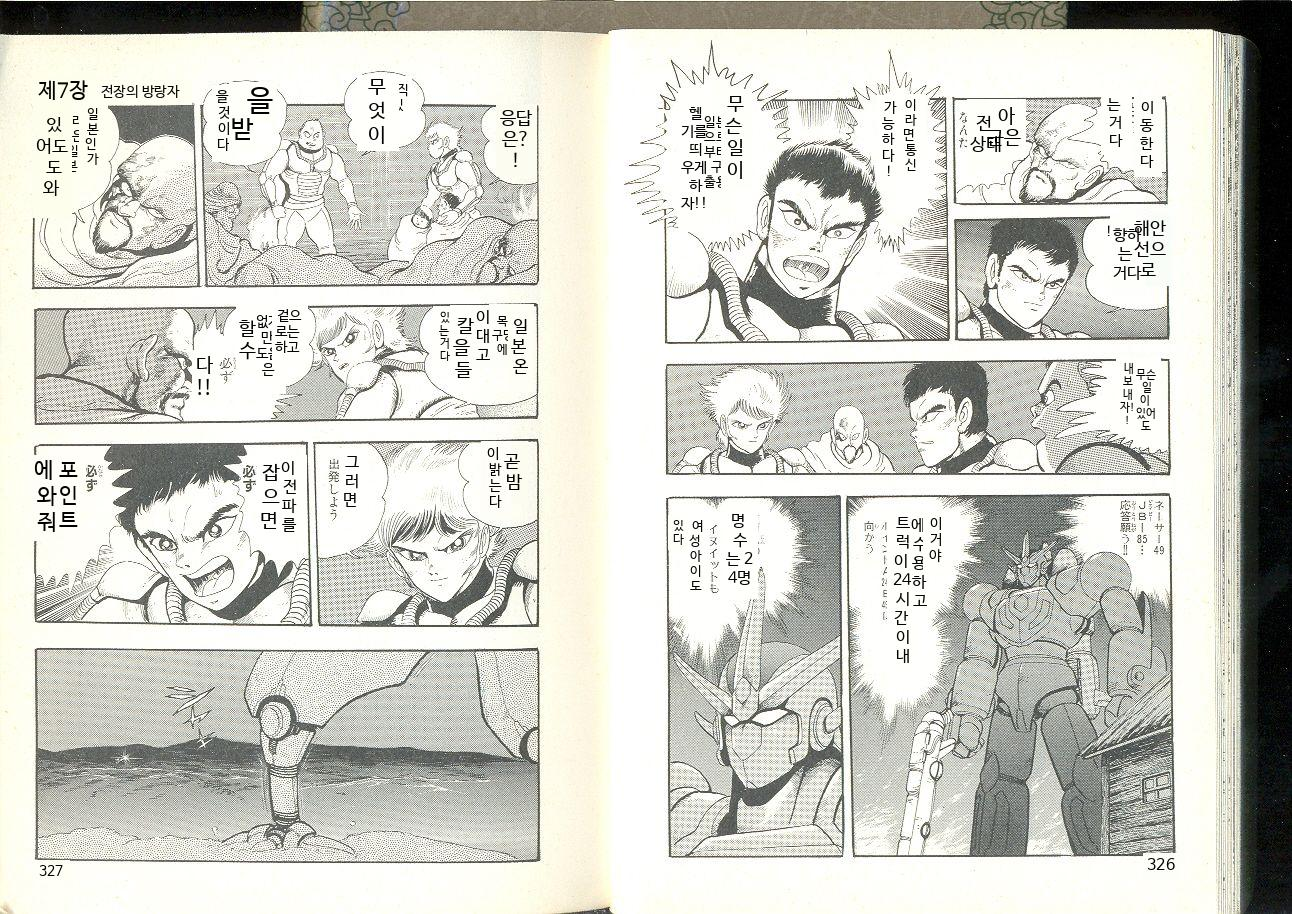
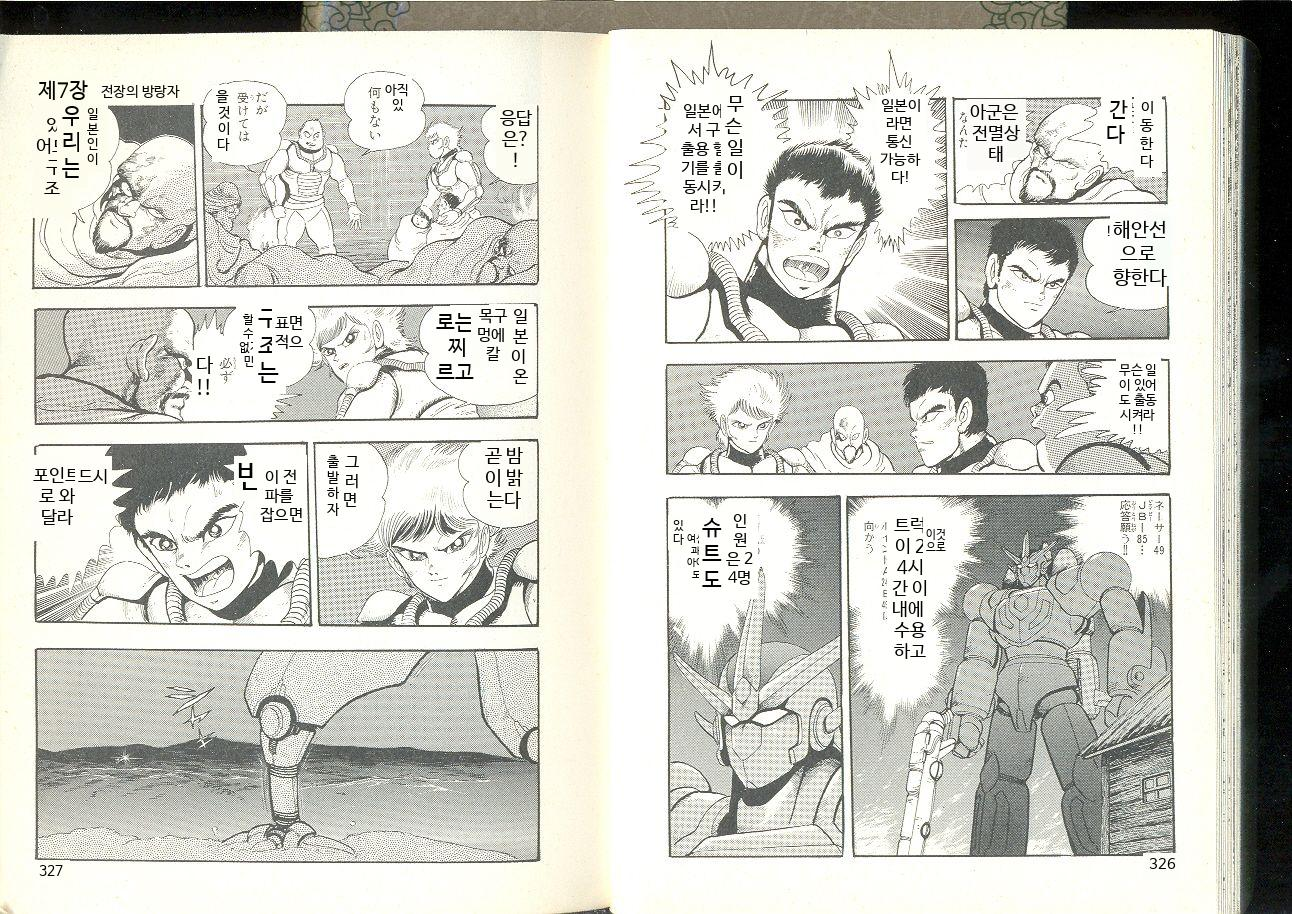
fix(render): 겹치는 bbox 클러스터링으로 텍스트 겹침 해결
- Union-Find로 겹치거나 인접(5px 이내)한 bbox를 클러스터로 묶음
- 클러스터 단위로 텍스트 분배 및 렌더링 (같은 클러스터 내 폰트 크기 통일)
- 세로쓰기 만화 말풍선에서 텍스트 겹침 문제 해결
- 테스트 11개 추가 (클러스터링, 겹침 판정, 겹치는 bbox 렌더링)
- 데모 이미지 업데이트

diff --git a/render.py b/render.py
@@ -8,7 +8,8 @@ from PIL import Image, ImageDraw, ImageFont
 DEFAULT_FONT = Path(__file__).resolve().parent / "fonts" / "NanumBarunGothic.ttf"
 MIN_FONT_SIZE = 8
 LINE_SPACING = 1.2
-ERASE_MARGIN = 3  # bbox 지우기 시 추가 마진 (px)
+ERASE_MARGIN = 3
+CLUSTER_GAP = 5  # bbox 간 이 거리 이하면 같은 클러스터로 묶음
 
 
 def _get_bbox_rect(bbox: list[list[float]]) -> tuple[int, int, int, int]:
@@ -127,6 +128,53 @@ def _erase_bbox(
     return bg_color
 
 
+def _rects_overlap_or_adjacent(
+    r1: tuple[int, int, int, int],
+    r2: tuple[int, int, int, int],
+    gap: int = CLUSTER_GAP,
+) -> bool:
+    """두 rect가 겹치거나 gap 이하로 인접하면 True."""
+    x1a, y1a, x1b, y1b = r1
+    x2a, y2a, x2b, y2b = r2
+    return not (
+        x1b + gap < x2a or x2b + gap < x1a or y1b + gap < y2a or y2b + gap < y1a
+    )
+
+
+def _cluster_bboxes(
+    bbox_rects: list[tuple[int, int, int, int]],
+) -> list[list[int]]:
+    """겹치거나 인접한 bbox들을 클러스터로 묶어 인덱스 그룹 반환.
+
+    Union-Find로 구현.
+    """
+    n = len(bbox_rects)
+    parent = list(range(n))
+
+    def find(x: int) -> int:
+        while parent[x] != x:
+            parent[x] = parent[parent[x]]
+            x = parent[x]
+        return x
+
+    def union(a: int, b: int) -> None:
+        ra, rb = find(a), find(b)
+        if ra != rb:
+            parent[ra] = rb
+
+    for i in range(n):
+        for j in range(i + 1, n):
+            if _rects_overlap_or_adjacent(bbox_rects[i], bbox_rects[j]):
+                union(i, j)
+
+    clusters: dict[int, list[int]] = {}
+    for i in range(n):
+        root = find(i)
+        clusters.setdefault(root, []).append(i)
+
+    return list(clusters.values())
+
+
 def run_render(
     translated_json_path: str,
     image_path: str,
@@ -160,27 +208,36 @@ def run_render(
             continue
 
         # 1단계: 모든 개별 bbox를 마진 포함하여 배경색으로 지우기
-        last_bg = None
-        for bbox in bboxes:
-            bx1, by1, bx2, by2 = _get_bbox_rect(bbox)
-            last_bg = _erase_bbox(draw, img, bx1, by1, bx2, by2)
-
-        # 2단계: 개별 bbox 단위로 텍스트 분배 및 렌더링
-        # 번역 텍스트를 각 bbox의 면적 비율로 분배
         bbox_rects = [_get_bbox_rect(b) for b in bboxes]
-        bbox_areas = [(r[2] - r[0]) * (r[3] - r[1]) for r in bbox_rects]
-        total_area = sum(bbox_areas) or 1
+        for bx1, by1, bx2, by2 in bbox_rects:
+            _erase_bbox(draw, img, bx1, by1, bx2, by2)
 
+        # 2단계: 겹치거나 인접한 bbox들을 클러스터로 묶기
+        clusters = _cluster_bboxes(bbox_rects)
+
+        # 번역 텍스트를 클러스터 면적 비율로 분배
+        cluster_rects = []
+        cluster_areas = []
+        for indices in clusters:
+            cx1 = min(bbox_rects[i][0] for i in indices)
+            cy1 = min(bbox_rects[i][1] for i in indices)
+            cx2 = max(bbox_rects[i][2] for i in indices)
+            cy2 = max(bbox_rects[i][3] for i in indices)
+            cluster_rects.append((cx1, cy1, cx2, cy2))
+            cluster_areas.append((cx2 - cx1) * (cy2 - cy1))
+
+        total_area = sum(cluster_areas) or 1
         text_remaining = translated
-        for i, (bx1, by1, bx2, by2) in enumerate(bbox_rects):
-            box_w = bx2 - bx1
-            box_h = by2 - by1
-            if box_w <= 0 or box_h <= 0:
+
+        for ci, (cx1, cy1, cx2, cy2) in enumerate(cluster_rects):
+            cw = cx2 - cx1
+            ch = cy2 - cy1
+            if cw <= 0 or ch <= 0:
                 continue
 
-            # 이 bbox에 할당할 글자 수 (면적 비율)
-            if i < len(bbox_rects) - 1:
-                ratio = bbox_areas[i] / total_area
+            # 이 클러스터에 할당할 텍스트
+            if ci < len(cluster_rects) - 1:
+                ratio = cluster_areas[ci] / total_area
                 char_count = max(1, round(len(translated) * ratio))
                 chunk = text_remaining[:char_count]
                 text_remaining = text_remaining[char_count:]
@@ -190,22 +247,21 @@ def run_render(
             if not chunk.strip():
                 continue
 
-            # 배경색/텍스트색 결정
-            bg_color = _get_background_color(img, bx1, by1, bx2, by2)
+            bg_color = _get_background_color(img, cx1, cy1, cx2, cy2)
             text_color = _get_text_color(bg_color)
 
-            # 폰트 크기 결정 (개별 bbox 크기 기준)
-            font_size, lines = _calc_font_size(chunk, box_w, box_h, font_file)
+            # 폰트 크기 결정 (클러스터 bounding rect 기준)
+            font_size, lines = _calc_font_size(chunk, cw, ch, font_file)
             font = ImageFont.truetype(font_file, font_size)
 
-            # 텍스트를 bbox 중앙에 렌더링
+            # 텍스트를 클러스터 영역 중앙에 렌더링
             total_text_h = int(len(lines) * font_size * LINE_SPACING)
-            y_offset = by1 + (box_h - total_text_h) // 2
+            y_offset = cy1 + (ch - total_text_h) // 2
 
             for line in lines:
                 line_bbox = font.getbbox(line)
                 line_w = line_bbox[2] - line_bbox[0]
-                x_offset = bx1 + (box_w - line_w) // 2
+                x_offset = cx1 + (cw - line_w) // 2
                 draw.text((x_offset, y_offset), line, fill=text_color, font=font)
                 y_offset += int(font_size * LINE_SPACING)
 

diff --git a/tests/test_render.py b/tests/test_render.py
@@ -409,3 +409,103 @@ class TestRenderBboxSizeConstraint:
         assert changed_middle == 0, (
             f"두 bbox 사이에 {changed_middle}개 변경 픽셀 발견 (이전 합산 렌더링 문제)"
         )
+
+
+class TestClusterBboxes:
+    """겹치거나 인접한 bbox 클러스터링 검증."""
+
+    def test_non_overlapping_separate_clusters(self):
+        from render import _cluster_bboxes
+
+        rects = [(0, 0, 10, 10), (100, 100, 110, 110)]
+        clusters = _cluster_bboxes(rects)
+        assert len(clusters) == 2
+
+    def test_overlapping_single_cluster(self):
+        from render import _cluster_bboxes
+
+        rects = [(0, 0, 20, 20), (10, 10, 30, 30)]
+        clusters = _cluster_bboxes(rects)
+        assert len(clusters) == 1
+        assert sorted(clusters[0]) == [0, 1]
+
+    def test_adjacent_within_gap(self):
+        from render import _cluster_bboxes, CLUSTER_GAP
+
+        # gap = CLUSTER_GAP 이하면 같은 클러스터
+        rects = [(0, 0, 10, 10), (10 + CLUSTER_GAP, 0, 20 + CLUSTER_GAP, 10)]
+        clusters = _cluster_bboxes(rects)
+        assert len(clusters) == 1
+
+    def test_beyond_gap_separate(self):
+        from render import _cluster_bboxes, CLUSTER_GAP
+
+        rects = [(0, 0, 10, 10), (10 + CLUSTER_GAP + 2, 0, 30, 10)]
+        clusters = _cluster_bboxes(rects)
+        assert len(clusters) == 2
+
+    def test_chain_clustering(self):
+        """A-B 겹침, B-C 겹침 → A,B,C 모두 같은 클러스터"""
+        from render import _cluster_bboxes
+
+        rects = [(0, 0, 15, 10), (10, 0, 25, 10), (20, 0, 35, 10)]
+        clusters = _cluster_bboxes(rects)
+        assert len(clusters) == 1
+        assert sorted(clusters[0]) == [0, 1, 2]
+
+    def test_single_bbox(self):
+        from render import _cluster_bboxes
+
+        rects = [(0, 0, 10, 10)]
+        clusters = _cluster_bboxes(rects)
+        assert len(clusters) == 1
+        assert clusters[0] == [0]
+
+    def test_empty_input(self):
+        from render import _cluster_bboxes
+
+        clusters = _cluster_bboxes([])
+        assert clusters == []
+
+
+class TestRectsOverlapOrAdjacent:
+    def test_overlapping(self):
+        from render import _rects_overlap_or_adjacent
+
+        assert _rects_overlap_or_adjacent((0, 0, 20, 20), (10, 10, 30, 30))
+
+    def test_adjacent(self):
+        from render import _rects_overlap_or_adjacent
+
+        assert _rects_overlap_or_adjacent((0, 0, 10, 10), (12, 0, 22, 10), gap=5)
+
+    def test_far_apart(self):
+        from render import _rects_overlap_or_adjacent
+
+        assert not _rects_overlap_or_adjacent((0, 0, 10, 10), (100, 100, 110, 110))
+
+
+class TestOverlappingBboxRendering:
+    """겹치는 bbox에서 텍스트가 겹치지 않는지 검증."""
+
+    def test_overlapping_bboxes_no_text_overlap(self, tmp_path, monkeypatch):
+        """세로쓰기 스타일: 겹치는 좁은 bbox 2개가 하나의 클러스터로 합쳐져서 렌더링"""
+        monkeypatch.chdir(tmp_path)
+        img_path = _make_test_image(
+            tmp_path, width=200, height=200, color=(255, 255, 255)
+        )
+        # 세로쓰기 말풍선 시뮬레이션: 두 bbox가 x축으로 겹침
+        translations = [
+            {
+                "original_texts": ["なんとしても", "出させる!!"],
+                "translated": "어떻게든 내보내라!!",
+                "bboxes": [
+                    [[50, 30], [70, 30], [70, 100], [50, 100]],  # 세로 bbox 1
+                    [[60, 30], [80, 30], [80, 100], [60, 100]],  # 세로 bbox 2 (겹침)
+                ],
+            },
+        ]
+        tr_json = _make_translated_json(tmp_path, translations)
+        output = run_render(str(tr_json), str(img_path))
+        assert output.exists()
+        # 에러 없이 렌더링되면 성공 (이전에는 겹치는 영역에 텍스트가 2번 그려짐)
